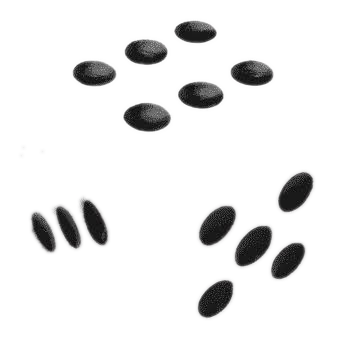
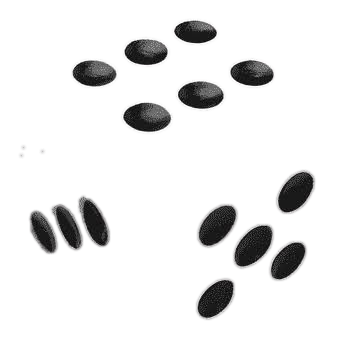
PES_2026_WEB_v1_10_2
Không tìm thấy file CHANGELOG*.md trong file nén.

diff --git a/templates/room_detail.html b/templates/room_detail.html
@@ -35,24 +35,29 @@
 
         <section class="room-center-stage-plain">
             {% if room.has_guest %}
+                {% if room.status == 'waiting_ready' %}
                 <div class="room-center-countdown-label">Thời gian còn lại để bắt đầu</div>
-                <div class="room-center-countdown" id="roomStartCountdown" data-seconds="{{ room.start_countdown_seconds }}">05:00</div>
+                <div class="room-center-countdown" id="roomStartCountdown" data-seconds="{{ room.start_countdown_seconds }}" data-mode="down">05:00</div>
+                {% else %}
+                <div class="room-center-countdown-label">Thời gian thi đấu</div>
+                <div class="room-center-countdown" id="roomStartCountdown" data-seconds="{{ room.match_elapsed_seconds }}" data-mode="up">00:00</div>
+                {% endif %}
                 <div class="room-center-vs-big">VS</div>
                 {% if room.status == 'waiting_ready' %}
-                    {% if current_user.id == room.host_user_id or current_user.role == 'admin' %}
+                    {% if (current_user.id == room.host_user_id or current_user.role == 'admin') and room.guest_ready %}
                     <form class="room-center-random-form" method="post" action="{{ url_for('room_random_teams', room_id=room.id) }}" onsubmit="const b=this.querySelector('button'); b.disabled=true; b.classList.add('loading');">
                         <input type="hidden" name="match_mode" value="ranked">
                         <button class="room-center-random-trigger" type="submit">
                             <img class="room-center-random-image" src="{{ url_for('static', filename='dice-random.png') }}" alt="Xúc xắc quay random đội" loading="eager">
-                            <span class="room-center-random-title">QUAY RANDOM ĐỘI</span>
+                            <span class="room-center-random-title room-random-button-label">QUAY RANDOM ĐỘI</span>
                             <span class="room-center-random-sub">Nhấn để đổi đội ngẫu nhiên cho cả hai bên</span>
                         </button>
                     </form>
                     {% else %}
                     <div class="room-center-random-trigger disabled">
                         <img class="room-center-random-image" src="{{ url_for('static', filename='dice-random.png') }}" alt="Xúc xắc quay random đội" loading="eager">
-                        <span class="room-center-random-title">QUAY RANDOM ĐỘI</span>
-                        <span class="room-center-random-sub">Đang chờ chủ phòng quay đội</span>
+                        <span class="room-center-random-title room-random-button-label">QUAY RANDOM ĐỘI</span>
+                        <span class="room-center-random-sub">{{ "Khách chưa sẵn sàng" if not room.guest_ready else "Đang chờ chủ phòng quay đội" }}</span>
                     </div>
                     {% endif %}
                 {% elif room.status == 'waiting_result_confirm' %}
@@ -78,6 +83,11 @@
                 {% else %}
                 <div class="room-player-rankline empty"><span>Đang chờ người chơi</span></div>
                 {% endif %}
+                {% if room.has_guest %}
+                <div class="room-ready-status {{ 'is-ready' if room.guest_ready else 'is-not-ready' }}">
+                    <span class="room-ready-dot"></span>{{ room.guest_ready_label }}
+                </div>
+                {% endif %}
             </div>
             <div class="room-card-club-area">
                 {% if room.guest_team_logo_url %}<img class="room-club-logo-large" src="{{ room.guest_team_logo_url }}" alt="Logo {{ room.guest_team or 'CLB' }}" loading="lazy">{% else %}<div class="room-team-placeholder-shield">?</div>{% endif %}
@@ -89,20 +99,6 @@
                 {% endif %}
                 <div class="room-team-league-text">{{ room.guest_team_league or 'Chưa có giải' }}</div>
             </div>
-            {% if current_user.id == room.guest_user_id and room.status == 'waiting_ready' %}
-            <div class="room-guest-action-bar">
-                {% if not room.guest_ready %}
-                <form method="post" action="{{ url_for('room_guest_ready', room_id=room.id) }}">
-                    <button class="btn green" type="submit">Sẵn sàng</button>
-                </form>
-                {% else %}
-                <button class="btn green" type="button" disabled>Đã sẵn sàng</button>
-                {% endif %}
-                <form method="post" action="{{ url_for('room_guest_forfeit', room_id=room.id) }}" onsubmit="return confirm('Thoát phòng lúc này được tính là Bỏ Cuộc và bị trừ 20 RP. Tiếp tục?');">
-                    <button class="btn red" type="submit">Thoát phòng</button>
-                </form>
-            </div>
-            {% endif %}
         </section>
 
         <aside class="room-side-rail">
@@ -131,21 +127,16 @@
 
     {% if room.status == "waiting_ready" %}
         {% if room.has_guest %}
-        <div class="room-waiting-host-box">
-            <strong>⏳ Trạng thái: Chờ Chủ Phòng Quay</strong>
-            <p class="small">Đối thủ đã vào phòng. Không cần bấm Sẵn sàng.</p>
+        <div class="room-waiting-host-box {{ 'ready' if room.guest_ready else 'not-ready' }}">
+            <strong>Trạng thái khách: {{ room.guest_ready_label }}</strong>
+            <p class="small">{{ 'Chủ phòng có thể quay đội.' if room.guest_ready else 'Khách cần bấm Sẵn sàng trước khi bắt đầu.' }}</p>
         </div>
         {% endif %}
 
         {% if current_user.id == room.host_user_id or current_user.role == "admin" %}
             {% if room.has_guest %}
             <div class="room-mode-grid">
-                <form method="post" action="{{ url_for('room_random_teams', room_id=room.id) }}" class="room-mode-card" onsubmit="const b=this.querySelector('button'); b.disabled=true; b.textContent='Đang quay đội...';">
-                    <input type="hidden" name="match_mode" value="ranked">
-                    <h3>🏆 Xếp hạng</h3>
-                    <p class="small">Smart Random theo Rank và Power Score. Có lưu lịch sử, có tính RP.</p>
-                    <button class="btn gold" type="submit">⚖️ Quay đội Xếp hạng</button>
-                </form>
+
                 <form method="post" action="{{ url_for('room_random_teams', room_id=room.id) }}" class="room-mode-card" onsubmit="const b=this.querySelector('button'); b.disabled=true; b.textContent='Đang quay đội...';">
                     <input type="hidden" name="match_mode" value="friendly">
                     <h3>🤝 Giao hữu</h3>
@@ -166,10 +157,21 @@
         {% endif %}
 
         {% if current_user.id == room.guest_user_id %}
-        <form class="inline-form" method="post" action="{{ url_for('room_guest_forfeit', room_id=room.id) }}" onsubmit="return confirm('Bạn đã chấp nhận vào phòng. Thoát lúc này được tính là Bỏ Cuộc và bị trừ 20 RP. Tiếp tục?');">
-            <button class="btn red" type="submit">🚪 Thoát Phòng</button>
-        </form>
-        <p class="small danger-text">Sau khi chấp nhận lời mời, thoát phòng được tính là bỏ cuộc và bị trừ 20 RP.</p>
+        <div class="room-guest-control-actions">
+            {% if not room.guest_ready %}
+            <form method="post" action="{{ url_for('room_guest_ready', room_id=room.id) }}">
+                <button class="btn green" type="submit">Sẵn sàng</button>
+            </form>
+            {% else %}
+            <form method="post" action="{{ url_for('room_guest_unready', room_id=room.id) }}">
+                <button class="btn gray" type="submit">Hủy sẵn sàng</button>
+            </form>
+            {% endif %}
+            <form method="post" action="{{ url_for('room_guest_forfeit', room_id=room.id) }}" onsubmit="return confirm('Bạn đã chấp nhận vào phòng. Thoát lúc này được tính là Bỏ Cuộc và bị trừ 20 RP. Tiếp tục?');">
+                <button class="btn red" type="submit">Thoát phòng</button>
+            </form>
+        </div>
+        <p class="small danger-text">Thoát phòng sau khi đã chấp nhận lời mời được tính là bỏ cuộc và bị trừ 20 RP.</p>
         {% elif current_user.id == room.host_user_id %}
         <form class="inline-form" method="post" action="{{ url_for('room_leave', room_id=room.id) }}">
             <button class="btn red" type="submit">🚪 Thoát phòng</button>
@@ -373,7 +375,9 @@ function renderRoomCountdown(seconds) {
 }
 
 let roomCountdownSeconds = Number(document.getElementById("roomCountdown")?.dataset.seconds || 0);
-let roomStartCountdownSeconds = Number(document.getElementById("roomStartCountdown")?.dataset.seconds || 0);
+const roomStartCountdownElement = document.getElementById("roomStartCountdown");
+let roomStartCountdownSeconds = Number(roomStartCountdownElement?.dataset.seconds || 0);
+const roomStartCountdownMode = roomStartCountdownElement?.dataset.mode || "down";
 
 function renderRoomStartCountdown(seconds) {
     const countdown = document.getElementById("roomStartCountdown");
@@ -387,7 +391,11 @@ renderRoomCountdown(roomCountdownSeconds);
 renderRoomStartCountdown(roomStartCountdownSeconds);
 setInterval(function () {
     if (roomCountdownSeconds > 0) roomCountdownSeconds -= 1;
-    if (roomStartCountdownSeconds > 0) roomStartCountdownSeconds -= 1;
+    if (roomStartCountdownMode === "up") {
+        roomStartCountdownSeconds += 1;
+    } else if (roomStartCountdownSeconds > 0) {
+        roomStartCountdownSeconds -= 1;
+    }
     renderRoomCountdown(roomCountdownSeconds);
     renderRoomStartCountdown(roomStartCountdownSeconds);
 }, 1000);

diff --git a/static/style.css b/static/style.css
@@ -3283,3 +3283,28 @@ html[data-theme="light"] .admin-switch-track{background:#cbd5df;border-color:#b9
 .room-center-random-title{margin-top:2px}
 .room-team-points-block{margin-top:14px}
 @media(max-width:640px){.room-center-random-image{width:118px;height:118px}}
+
+/* V1.10.2 - ready state, match timer, random button */
+.room-ready-status{display:inline-flex;align-items:center;justify-content:center;gap:7px;margin-top:7px;padding:6px 11px;border-radius:999px;font-size:12px;font-weight:900;border:1px solid rgba(255,255,255,.1)}
+.room-ready-status.is-ready{background:rgba(30,215,125,.12);border-color:rgba(30,215,125,.35);color:#76f0b1}
+.room-ready-status.is-not-ready{background:rgba(255,184,57,.1);border-color:rgba(255,184,57,.3);color:#ffd06b}
+.room-ready-dot{width:8px;height:8px;border-radius:50%;background:currentColor;box-shadow:0 0 10px currentColor}
+.room-waiting-host-box.ready{border-color:rgba(30,215,125,.35);background:rgba(30,215,125,.08)}
+.room-waiting-host-box.ready strong{color:#76f0b1}
+.room-waiting-host-box.not-ready{border-color:rgba(255,184,57,.35);background:rgba(255,184,57,.08)}
+.room-waiting-host-box.not-ready strong{color:#ffd06b}
+.room-guest-control-actions{display:flex;flex-wrap:wrap;gap:10px;margin-top:12px}
+.room-guest-control-actions form{margin:0}
+.room-guest-control-actions .btn{min-width:150px;min-height:44px;font-weight:900}
+.room-center-random-trigger{border-radius:18px;padding:12px 14px 16px;transition:background .18s ease,border-color .18s ease,transform .18s ease}
+.room-center-random-trigger:not(.disabled){border:1px solid rgba(246,190,39,.36);background:linear-gradient(180deg,rgba(246,190,39,.10),rgba(246,190,39,.035));box-shadow:0 12px 28px rgba(0,0,0,.20)}
+.room-center-random-trigger:not(.disabled):hover{background:linear-gradient(180deg,rgba(246,190,39,.16),rgba(246,190,39,.06));border-color:rgba(246,190,39,.58);transform:translateY(-2px)}
+.room-center-random-trigger.disabled{border:1px solid rgba(255,255,255,.08);background:rgba(255,255,255,.025);opacity:.68}
+.room-random-button-label{display:inline-flex;align-items:center;justify-content:center;min-height:40px;padding:8px 16px;border-radius:12px;background:linear-gradient(180deg,#ffe18a,#e7b844);color:#15100a!important;font-size:18px!important;box-shadow:0 8px 18px rgba(0,0,0,.22)}
+.room-center-random-trigger.disabled .room-random-button-label{background:rgba(255,255,255,.10);color:#c7d0df!important;box-shadow:none}
+.room-center-random-image{opacity:1!important;filter:contrast(1.08) brightness(1.08) drop-shadow(0 16px 26px rgba(0,0,0,.45))!important}
+@media(max-width:640px){
+  .room-guest-control-actions{display:grid;grid-template-columns:1fr}
+  .room-guest-control-actions .btn{width:100%;min-width:0}
+  .room-random-button-label{font-size:16px!important;min-height:38px;padding:7px 12px}
+}

diff --git a/app.py b/app.py
@@ -34,7 +34,7 @@ from supabase import create_client
 load_dotenv()
 
 APP_NAME = "PES 2026"
-APP_VERSION = "V1.10.1"
+APP_VERSION = "V1.10.2"
 DEFAULT_POINTS = 1000
 DEVICE_COOKIE_NAME = "rankzone_device_id"
 COOLDOWN_MINUTES = 3
@@ -2456,12 +2456,18 @@ def enrich_room(room):
 
     room["match_mode_label"] = "Xếp hạng (Rank)" if room.get("match_mode") != MATCH_MODE_FRIENDLY else f"Giao hữu Tier {room.get('friendly_tier') or ''}".strip()
     room["battle_label"] = "Trận đấu xếp hạng" if room.get("match_mode") != MATCH_MODE_FRIENDLY else "Trận đấu giao hữu"
-    room["start_countdown_seconds"] = 300
+    room["start_countdown_seconds"] = 0
+    room["match_elapsed_seconds"] = 0
     if room.get("guest_user_id"):
-        start_source = room.get("updated_at") or room.get("created_at")
-        start_dt = parse_dt(start_source) if start_source else None
-        if start_dt:
-            room["start_countdown_seconds"] = max(0, 300 - int((now_dt() - start_dt).total_seconds()))
+        time_source = room.get("updated_at") or room.get("created_at")
+        event_dt = parse_dt(time_source) if time_source else None
+        if event_dt:
+            elapsed = max(0, int((now_dt() - event_dt).total_seconds()))
+            if room.get("status") == "waiting_ready":
+                room["start_countdown_seconds"] = max(0, 300 - elapsed)
+            elif room.get("status") in {"playing", "friendly_playing", "waiting_result_confirm"}:
+                room["match_elapsed_seconds"] = elapsed
+    room["guest_ready_label"] = "Đã sẵn sàng" if room.get("guest_ready") else "Chưa sẵn sàng"
     return room
 
 
@@ -4281,8 +4287,8 @@ def respond_invite(invite_id):
             db.table("match_rooms").update({
                 "invite_id": invite_id,
                 "guest_user_id": invite["to_user_id"],
-                "guest_ready": True,
-                "note": "Đối thủ đã vào phòng. Đang chờ Chủ Phòng quay đội.",
+                "guest_ready": False,
+                "note": "Đối thủ đã vào phòng. Khách chưa sẵn sàng.",
                 "state_expires_at": None,
                 "updated_at": now_iso(),
             }).eq("id", inviter_room["id"]).eq("status", "waiting_ready"),
@@ -4295,15 +4301,15 @@ def respond_invite(invite_id):
             "guest_user_id": invite["to_user_id"],
             "team_tier": SMART_RANDOM_MODE,
             "status": "waiting_ready",
-            "guest_ready": True,
-            "note": "Đối thủ đã vào phòng. Đang chờ Chủ Phòng quay đội.",
+            "guest_ready": False,
+            "note": "Đối thủ đã vào phòng. Khách chưa sẵn sàng.",
             "state_expires_at": None,
             "updated_at": now_iso(),
         }).execute().data[0]
 
     db.table("match_invites").update({"status": "accepted", "updated_at": now_iso()}).eq("id", invite_id).execute()
 
-    flash("Đã chấp nhận lời mời. Đang chờ Chủ Phòng quay đội.", "success")
+    flash("Đã chấp nhận lời mời. Hãy bấm Sẵn sàng khi bạn đã chuẩn bị xong.", "success")
     return redirect(url_for("room_detail", room_id=room["id"]))
 
 
@@ -4681,6 +4687,9 @@ def room_random_teams(room_id):
     if not room.get("guest_user_id"):
         flash("Phòng chưa có đối thủ. Hãy mời một người chơi vào phòng.", "warning")
         return redirect(url_for("room_detail", room_id=room_id))
+    if not room.get("guest_ready"):
+        flash("Đội khách chưa sẵn sàng. Hãy chờ khách bấm Sẵn sàng.", "warning")
+        return redirect(url_for("room_detail", room_id=room_id))
     if room.get("match_id") or room.get("host_team") or room.get("guest_team"):
         flash("Phòng đã được quay đội hoặc đã tạo trận.", "warning")
         return redirect(url_for("room_detail", room_id=room_id))
@@ -4871,28 +4880,48 @@ def room_finish_friendly(room_id):
 @app.route("/room/<room_id>/guest-unready", methods=["POST"])
 @login_required
 def room_guest_unready(room_id):
-    # Giữ endpoint để tương thích với trang cũ/cache cũ. V1.10.0 đã bỏ bước Sẵn sàng.
-    flash("V1.10.0 đã bỏ nút Sẵn sàng. Phòng đang chờ Chủ Phòng quay đội.", "warning")
+    user = current_user()
+    room = get_room(room_id)
+    if not room or user.get("id") != room.get("guest_user_id"):
+        flash("Bạn không thuộc phòng đấu này.", "danger")
+        return redirect(url_for("dashboard"))
+    if room.get("status") != "waiting_ready":
+        flash("Không thể hủy sẵn sàng ở trạng thái hiện tại.", "warning")
+        return redirect(url_for("room_detail", room_id=room_id))
+    execute_query(
+        db.table("match_rooms").update({
+            "guest_ready": False,
+            "note": "Khách đã hủy sẵn sàng.",
+        }).eq("id", room_id).eq("status", "waiting_ready"),
+        "room_guest_unready",
+    )
+    cache_delete("_rz_rooms_all")
+    ttl_cache_delete("rooms_raw")
+    flash("Đã hủy trạng thái sẵn sàng.", "success")
     return redirect(url_for("room_detail", room_id=room_id))
 
 
 @app.route("/room/<room_id>/guest-ready", methods=["POST"])
 @login_required
 def room_guest_ready(room_id):
-    # Giữ endpoint để tương thích với trang cũ/cache cũ. Khách được coi là đã vào phòng ngay khi chấp nhận lời mời.
     user = current_user()
     room = get_room(room_id)
-    if room and user.get("id") == room.get("guest_user_id") and room.get("status") == "waiting_ready" and not room.get("guest_ready"):
-        execute_query(
-            db.table("match_rooms").update({
-                "guest_ready": True,
-                "state_expires_at": None,
-                "note": "Đang chờ Chủ Phòng quay đội.",
-                "updated_at": now_iso(),
-            }).eq("id", room_id).eq("status", "waiting_ready"),
-            "legacy_room_guest_ready_update",
-        )
-    flash("Không cần bấm Sẵn sàng nữa. Đang chờ Chủ Phòng quay đội.", "success")
+    if not room or user.get("id") != room.get("guest_user_id"):
+        flash("Bạn không thuộc phòng đấu này.", "danger")
+        return redirect(url_for("dashboard"))
+    if room.get("status") != "waiting_ready":
+        flash("Không thể đổi trạng thái sẵn sàng lúc này.", "warning")
+        return redirect(url_for("room_detail", room_id=room_id))
+    execute_query(
+        db.table("match_rooms").update({
+            "guest_ready": True,
+            "note": "Khách đã sẵn sàng. Chủ phòng có thể quay đội.",
+        }).eq("id", room_id).eq("status", "waiting_ready"),
+        "room_guest_ready",
+    )
+    cache_delete("_rz_rooms_all")
+    ttl_cache_delete("rooms_raw")
+    flash("Bạn đã sẵn sàng.", "success")
     return redirect(url_for("room_detail", room_id=room_id))
 
 

diff --git a/Log.md b/Log.md
@@ -1,12 +1,15 @@
 # Log
 
-## V1.10.1
+## V1.10.2
 
-- Thay emoji xúc xắc bằng ảnh xúc xắc thật do người dùng cung cấp.
-- Loại bỏ hoàn toàn vòng tròn/layer màu tím phía sau xúc xắc.
-- Giữ hai dòng chữ dưới xúc xắc: `QUAY RANDOM ĐỘI` và `Nhấn để đổi đội ngẫu nhiên cho cả hai bên`.
-- Chỉ hiển thị số `total_stats` khi đội đã có dữ liệu; không còn hiện chữ `TOTAL STATS` hoặc dấu `---` khi chưa có đội.
-- Tăng tốc nhận lời mời: popup kiểm tra mỗi 3 giây thay vì 18 giây.
-- API lời mời chuyển sang truy vấn trực tiếp lời mời của người nhận, không tải toàn bộ danh sách lời mời.
-- Xóa cache lời mời ngay sau khi gửi thành công để người nhận thấy lời mời nhanh hơn.
-- Cập nhật phiên bản ứng dụng thành `V1.10.1`.
+- Tách rõ hai loại thời gian trong phòng đấu.
+- Khi đủ hai người và chưa quay đội: hiển thị `Thời gian còn lại để bắt đầu`, đếm ngược từ 5 phút.
+- Sau khi chủ phòng quay đội: chuyển sang `Thời gian thi đấu`, đếm tăng từ 00:00.
+- Làm ảnh xúc xắc rõ và đậm hơn, không còn cảm giác quá trong suốt.
+- Đưa chữ `QUAY RANDOM ĐỘI` vào nút bấm rõ ràng để chủ phòng dễ thao tác.
+- Khôi phục đầy đủ trạng thái Sẵn sàng / Hủy sẵn sàng cho đội khách.
+- Chuyển các nút Sẵn sàng, Hủy sẵn sàng và Thoát phòng xuống khu vực Điều khiển phòng.
+- Thêm nhãn màu giúp phân biệt `Đã sẵn sàng` và `Chưa sẵn sàng` ngay trên khung đội khách.
+- Chủ phòng chỉ được quay đội khi đội khách đã sẵn sàng.
+- Giữ nguyên việc chỉ hiện total_stats khi đã có dữ liệu đội.
+- Cập nhật phiên bản ứng dụng thành `V1.10.2`.